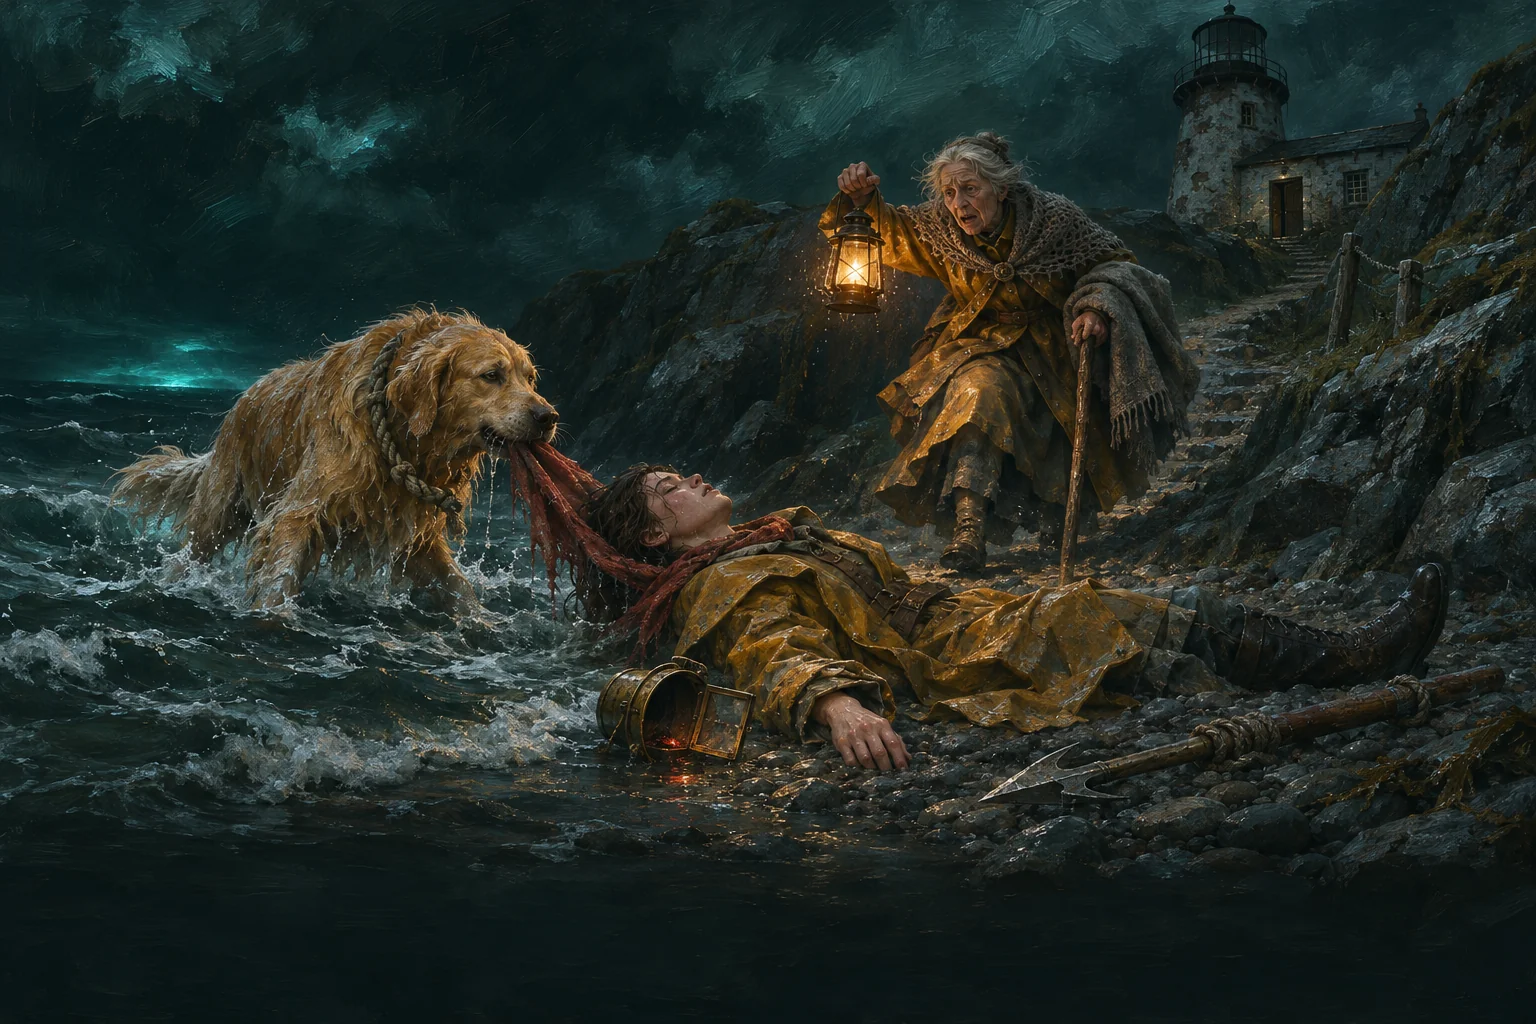
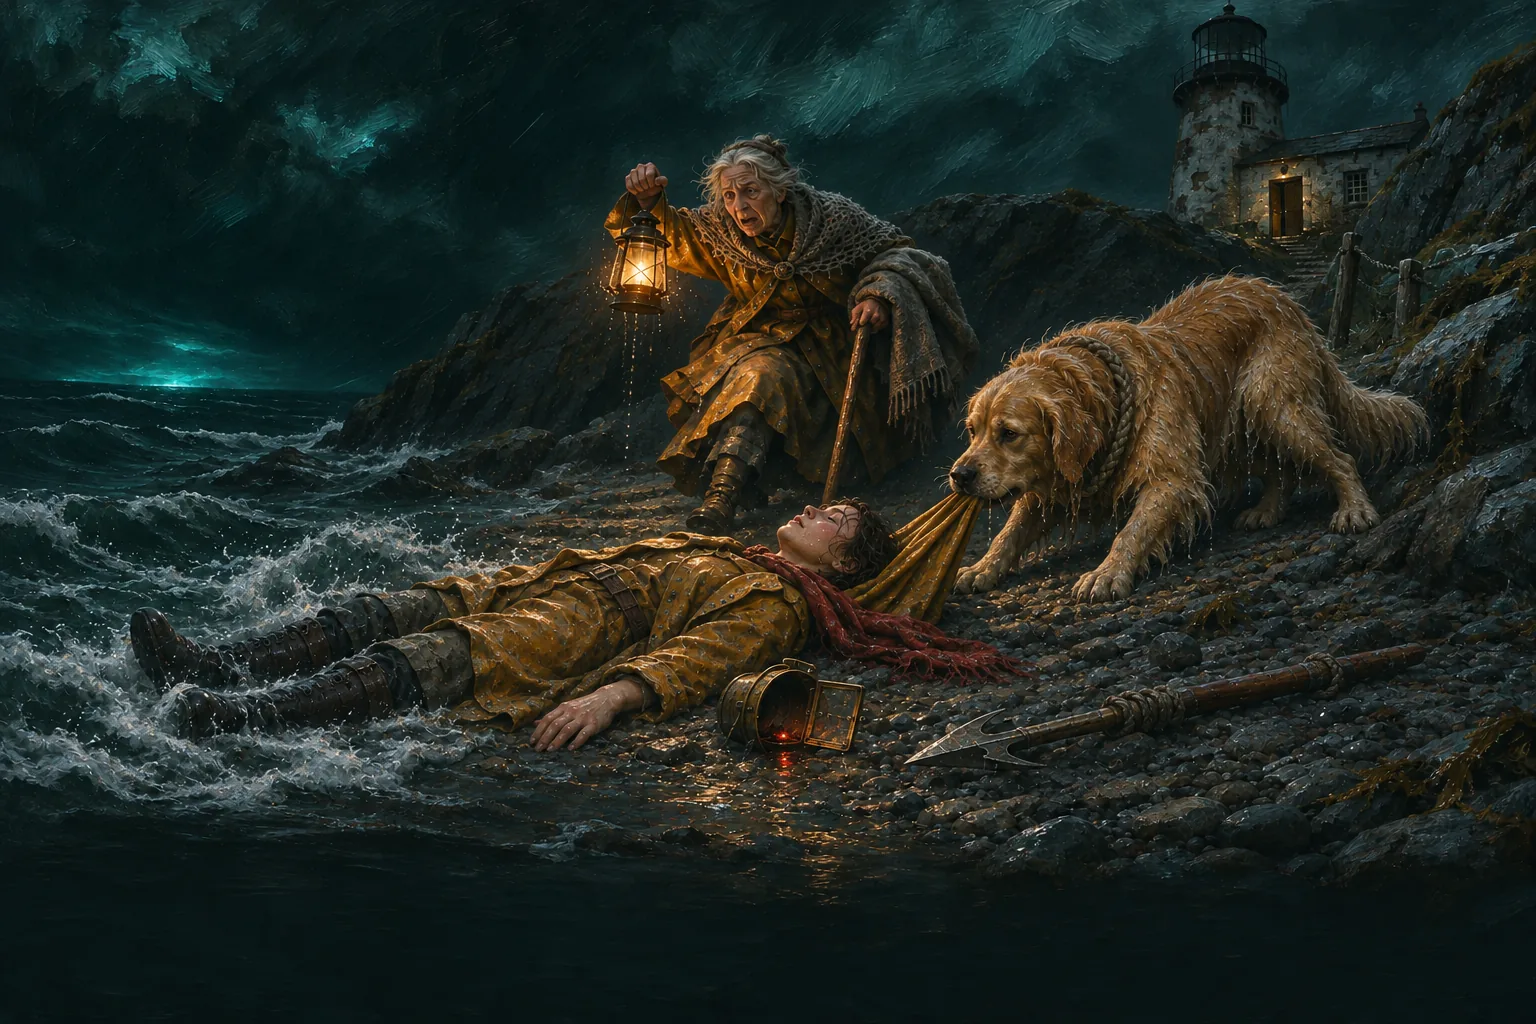
v0.46.0: the user's playtest: toll bells 5 HP / 20 Pearls (Shallows) and 7 HP / 30 Pearls (Dark Water); the Reefback Hulk 56-60 HP (7.9 to 6.6 turns a fight for the bot); a new first-fall picture with Bosun on the shore side hauling Wren out of the surf by her collar

diff --git a/js/ui.js b/js/ui.js
@@ -3631,7 +3631,7 @@
   }
 
   /* ----- The Toll (v0.41.0) ----- */
-  /* What a toll asks on a level: "8 HP, 30 Pearls or a Barnacle Growth" (`short`: no Barnacle). */
+  /* What a toll asks on a level: "5 HP, 20 Pearls or a Barnacle Growth" (`short`: no Barnacle). */
   function tollText(lv, short) {
     const t = E.TOLL[Math.min(E.TOLL.length - 1, lv)];
     return short ? `${t.hp} HP or ${t.pearls} Pearls` : `${t.hp} HP, ${t.pearls} Pearls or a Barnacle Growth in your deck`;
@@ -3736,12 +3736,12 @@
     const title = win ? (run.heart ? 'The Lantern Heart rises' : run.quieted ? 'The Belfry is quiet' : 'Home with your haul') : 'The tide takes you';
     const text = win
       ? (run.heart ? E.band(run).win : run.quieted ? E.band(run).quiet : `You climb back up the drained stairs with everything you carry, and Bosun runs ahead to tell Hester. Behind you the bells start again, and the water creeps back over the landings. ${run.heartHome ? 'The great light turns over the town' : 'The lighthouse is still dark'}, and you know the way down now.`)
-      : `The cold water closes over your lantern, and you go under. Past the bell's reach the sea gives you back, and Bosun drags you out of the surf by your scarf. ${run.heartHome ? 'The great light still turns over the town.' : 'The lighthouse is still dark, and the water has risen a little higher toward the town.'}`;
+      : `The cold water closes over your lantern, and you go under. Past the bell's reach the sea gives you back, and Bosun hauls you up out of the surf by your collar. ${run.heartHome ? 'The great light still turns over the town.' : 'The lighthouse is still dark, and the water has risen a little higher toward the town.'}`;
     /* v0.44.0: Hester and Bosun on the end screens. Bringing the Heart home shows her on the gallery as the light turns;
        coming home shows her in the doorway with Bosun running ahead, the lamp lit once the Heart is home; a fall shows
        Bosun bringing Wren out of the surf (the first fall's story scene). */
     const endArt = win ? (run.heart ? 'scenes/sc_heart3' : run.heartHome ? 'scenes/end_home_lit' : 'scenes/end_home') : 'scenes/sc_fall';
-    const endPos = { 'scenes/sc_heart3': '45% center', 'scenes/sc_fall': '45% center' }[endArt] || '55% center'; // where the people are, on a phone
+    const endPos = { 'scenes/sc_heart3': '45% center', 'scenes/sc_fall': '58% center' }[endArt] || '55% center'; // where the people are, on a phone
     // no HUD on the end screens, so the dimming layer starts at the very top (--hud-h: 0)
     screenEl.innerHTML = `<div class="run-screen" style="--hud-h:0px"><div class="run-body"><div class="scene" style="background-image:url(img/${endArt}.webp);background-position:${endPos}"><div class="scene-inner" style="padding-top:8vh">
       <h1>${title}</h1><p class="lead">${text}</p>

diff --git a/tests/rules.test.js b/tests/rules.test.js
@@ -936,7 +936,7 @@ test('Wrecks: a chest of Pearls and a choice of 1 of 2 keepsakes', () => {
   assert.ok(!E.has(run, run.treasure.choices[0]), 'only one');
 });
 
-test('a toll bell: pay 8 HP (never the last), 30 Pearls or a Barnacle Growth to pass; Dark Water asks 10 HP or 40 Pearls; not in the Belfry', () => {
+test('a toll bell: pay 5 HP (never the last), 20 Pearls or a Barnacle Growth to pass; Dark Water asks 7 HP or 30 Pearls; not in the Belfry', () => {
   const at = (level) => { const run = E.newRun(4, level, ['suit']); E.enterNode(run, { row: E.TOLL_ROW, col: 0, type: 'toll' }); return run; };
   assert.equal(E.TOLL_ROW, 4);
   // in HP
@@ -946,7 +946,7 @@ test('a toll bell: pay 8 HP (never the last), 30 Pearls or a Barnacle Growth to 
   assert.equal(E.tollCan(run, 'pearls'), 'Not enough Pearls');
   assert.equal(E.payToll(run, 'pearls'), false);
   assert.equal(E.payToll(run, 'hp'), true);
-  assert.equal(run.hp, 70 - 8);
+  assert.equal(run.hp, 70 - 5);
   assert.equal(E.payToll(run, 'barnacle'), false, 'once');
   assert.equal(run.toll.paid, 'hp');
   E.backToMap(run);
@@ -955,11 +955,11 @@ test('a toll bell: pay 8 HP (never the last), 30 Pearls or a Barnacle Growth to 
   run = at(0);
   run.pearls = 45;
   assert.equal(E.payToll(run, 'pearls'), true);
-  assert.equal(run.pearls, 15);
+  assert.equal(run.pearls, 25);
   assert.equal(run.hp, 70);
   // with barnacles; and HP can't pay with her last
   run = at(0);
-  run.hp = 8;
+  run.hp = 5;
   assert.equal(E.tollCan(run, 'hp'), 'Too weak');
   assert.equal(E.payToll(run, 'hp'), false);
   const deck = run.deck.length;
@@ -972,11 +972,11 @@ test('a toll bell: pay 8 HP (never the last), 30 Pearls or a Barnacle Growth to 
   assert.equal(E.payToll(run, 'hp'), false);
   // Dark Water asks more
   run = at(1);
-  run.pearls = 39;
+  run.pearls = 29;
   assert.equal(E.tollCan(run, 'pearls'), 'Not enough Pearls');
   E.payToll(run, 'hp');
-  assert.equal(run.hp, 70 - 10);
-  assert.deepEqual(E.TOLL, [{ hp: 8, pearls: 30 }, { hp: 10, pearls: 40 }]);
+  assert.equal(run.hp, 70 - 7);
+  assert.deepEqual(E.TOLL, [{ hp: 5, pearls: 20 }, { hp: 7, pearls: 30 }]);
   // every walkable level has its toll row; the Belfry's dive has none
   assert.ok(E.newRun(9, 1).map.grid[4].filter(Boolean).every((n) => n.type === 'toll'));
   assert.ok(E.newRun(9, 2, ['suit']).map.grid.flat().filter(Boolean).every((n) => n.type !== 'toll'));

diff --git a/js/data.js b/js/data.js
@@ -518,7 +518,7 @@
     },
     // ---------- Elites ----------
     hulk: {
-      name: 'Reefback Hulk', hp: [68, 72], art: 'hulk', scale: 1.3, elite: true,
+      name: 'Reefback Hulk', hp: [56, 60], art: 'hulk', scale: 1.3, elite: true, // 68-72 until v0.46.0: 7.9 turns a fight for the bot, the other Shallows Dreads 6.8
       init: (e) => { e.st.spines = 2; }, // Spines 3 and Rouse Might 2 until v0.21.0: by far the deadliest Dread in the game
       moves: {
         crush: { name: 'Crush', dmg: 11 },
@@ -1259,8 +1259,8 @@
       ] },
       // the first fall (v0.44.0, the user's request): Bosun brings her out of the surf; every later fall's end screen shows it
       fall: { at: 'fell', beats: [
-        { art: 'scenes/sc_fall', pos: '45% center', wide: 'center 35%', zoom: 1.04,
-          text: 'The cold water closed over your lantern, and the sea gave you back. Bosun went in after you and dragged you out of the surf by your scarf, barking until Hester came down the rock with a lantern and a blanket. In your lantern an ember was still alight.' },
+        { art: 'scenes/sc_fall', pos: '58% center', wide: 'center 35%', zoom: 1.04, // v0.46.0's picture: Bosun on the shore side
+          text: 'The cold water closed over your lantern, and the sea gave you back. Bosun went in after you and hauled you up out of the surf by your collar, barking until Hester came down the rock with a lantern and a blanket. In your lantern an ember was still alight.' },
       ] },
       heart: { at: 'heart', beats: [
         { art: 'scenes/sc_heart1', pos: 'center', wide: 'center 35%', zoom: 1.04, sfx: 'bell',

diff --git a/js/version.js b/js/version.js
@@ -5,8 +5,13 @@
 (function () {
   'use strict';
   const BL = (globalThis.BL = globalThis.BL || {});
-  BL.VERSION = '0.45.1';
+  BL.VERSION = '0.46.0';
   BL.CHANGELOG = [
+    { v: '0.46.0', date: '2026-11-17', items: [
+      'Toll bells ask less: 5 HP or 20 Pearls in the Shallows (8 or 30 before), and 7 HP or 30 Pearls in Dark Water (10 or 40 before). A Barnacle Growth still pays either.',
+      'The Reefback Hulk has 56 to 60 HP (68 to 72 before), so its fight is about as long as the other Dreads\' of the Shallows. Its Spines and Rouse are as before.',
+      'A new picture for the first fall and every fall\'s end screen: Bosun stands on the shingle and hauls Wren up out of the surf by her collar, toward the lighthouse. Before, he stood in the surf, and it looked as if he was pulling her in.',
+    ] },
     { v: '0.45.1', date: '2026-11-17', items: [
       'A Dread\'s reward: "or the keepsake" has the same lettering as "Choose one: a card for your deck" and sits on the same line, the keepsake is level with the cards, and its name is lettered like theirs.',
     ] },

diff --git a/js/engine.js b/js/engine.js
@@ -768,7 +768,7 @@
      route: a lost bell hung across the way, still answering the Bellwether, that lets nobody pass for free. Wren
      chooses how to pay: in HP (never her last), in Pearls, or with a Barnacle Growth in her deck. Dark Water asks
      more. It takes the place of a row of stops, so a level has one stop fewer: harder, and a little shorter. */
-  E.TOLL = [{ hp: 8, pearls: 30 }, { hp: 10, pearls: 40 }];
+  E.TOLL = [{ hp: 5, pearls: 20 }, { hp: 7, pearls: 30 }]; // 8/30 and 10/40 until v0.46.0 (the user: "could lessen tolls")
   E.TOLL_WAYS = ['hp', 'pearls', 'barnacle'];
   E.tollOf = (run) => E.TOLL[Math.min(E.TOLL.length - 1, run.level || 0)];
   /* Can she pay this way? True, or the reason she can't. */

diff --git a/WORLD.md b/WORLD.md
@@ -216,7 +216,7 @@ The suit still has to be carried home before it can be worn on a later expeditio
 - **Agreed (the user's idea and choices):** Wren is not alone. An old keeper waits at the lighthouse, and a dog goes down the Reach with her. They are lore only for now, and both leave room for mechanics later. Between them they explain how Wren gets home when she falls. The dog is a golden-retriever kind of dog, but the game never names its breed.
 - **Agreed (2026-11-17): the names Hester and Bosun** (the agent's, kept by the user).
 - **In the game (v0.43.0), as drafted below:** the opening's fourth picture (`img/scenes/op_home`: Hester in the lit doorway of the dark lighthouse, Wren on the steps with her lantern, Bosun beside her), *The sea gives you back*, the fall and homecoming screens, Into the Belfry (Bosun waits by the lantern on the last dry step, also in its first picture), the dress mended with Hester holding the lamp, the Heart (Hester on the gallery), the Dark Watch ("not even Hester"), the quiet (Bosun at the foot of the bed), the Lazaret's key, The world's Hester and Bosun, and two Keeper's notes. Bosun is "he" in the game.
-- **In the game (v0.44.0), pictures:** Hester looks worried in the opening picture as Wren goes down. The first fall plays a story scene (`img/scenes/sc_fall`: Bosun dragging Wren out of the surf by her scarf, Hester coming down the rock with a lantern and a blanket, the lantern an ember on the shingle), and that picture is behind every fall's end screen. Coming home shows Hester in the lighthouse door and Bosun running up the steps ahead of Wren (`end_home`; `end_home_lit` once the Heart is home). The Heart's dawn picture (`sc_heart3`) has Hester on the gallery as the great light turns, and Bosun barking on the rock below. The Workshop's picture has Bosun in it.
+- **In the game (v0.44.0), pictures:** Hester looks worried in the opening picture as Wren goes down. The first fall plays a story scene (`img/scenes/sc_fall`: since v0.46.0 Bosun on the shore side, backing up the shingle and hauling Wren out of the surf by the collar of her oilskin, her boots still in the waves, Hester coming down the rock with a lantern, the lantern an ember on the shingle; until then he stood in the surf pulling her scarf, which the user saw as dragging her into the sea. He swims her in by her scarf and hauls her up the shingle by her collar), and that picture is behind every fall's end screen. Coming home shows Hester in the lighthouse door and Bosun running up the steps ahead of Wren (`end_home`; `end_home_lit` once the Heart is home). The Heart's dawn picture (`sc_heart3`) has Hester on the gallery as the great light turns, and Bosun barking on the rock below. The Workshop's picture has Bosun in it.
 - **Draft (the agent's details):**
   - **The old keeper, Hester.** She kept the light for forty years and taught Wren. The lantern Wren carries was hers. When her knees gave out on the tower stairs she handed it on, and the keeping with it. Without a lit lantern she is no longer a keeper, so Wren is still the last one. Like every keeper since the Lost Lamplighter, Hester never went down the stair. She knows the Reach only from the keepers' book, which she keeps and Wren reads. She is what makes the lighthouse home: the kettle, the patched oilskin, the key to the Lazaret, the bench in the boathouse where the dress was mended. She does not go down and does not fight. What she gives is what the book knows, and someone to come home to. Dev, the errand boy in the keeper drafts, runs her errands.
   - **The dog, Bosun.** Hester's dog first, and Wren's now: big, golden and soft-mouthed. It has pulled gulls, oars and once a fisherman's boy out of the harbour. It goes down with Wren through the Shallows and Dark Water and keeps back from fights, which is why a fight shows her alone. It cannot follow her under the sea. On the last dry step above the Belfry it lies down beside the open lantern she leaves there, and waits. In pictures its coat is the warm gold of lantern light against the teal Reach.

diff --git a/GAME_NOTES.md b/GAME_NOTES.md
@@ -1743,6 +1743,26 @@ Steps 1 and 2 of the build order above, which the user asked for ("Yes, do 1 and
 
 **The bloopers page (asked for a sketch only, not built):** "Outtakes" behind Credits, opened once the Heart is home like a post-credits reel. Two tabs, Pictures and Songs; each row the outtake (a picture, or a 15-30 s clip) and one line, "Asked for: ... Got: ...". Material: the art dropped in the v0.23.0 review, the first post-Hermit bell picture, keeper drafts, the metal song takes that came out as teen-angst screaming. About a day of work; clips, not whole songs, for size. Kept off the main path so it doesn't break the mood.
 
+### The user's playtest: cheaper tolls, a shorter Hulk, and the fall picture (v0.46.0, 2026-11-17)
+
+- **The user's playtest notes (on the live v0.44.0):** "Game much harder now, did not defeat first boss. But got enough salvage to buy cork vest. Reefback Hulk felt a bit too long of a fight. Could lessen tolls in Toll Bell. Like the shorter game length. Difficulty might be okay even if harder." And on the first-fall picture: "it almost looks like Wren is dragged into the water, away from lighthouse?"
+- **The user's calls:** tolls 5 HP / 20 Pearls in the Shallows and 7 HP / 30 Pearls in Dark Water (the agent's proposal; a Barnacle Growth still pays either); the Hulk measured first, then 56-60 HP; the fall picture repainted with Bosun pulling toward the shore, variant A of two.
+- **No global difficulty change**, since the user finds harder possibly fine and likes the length.
+- **Measured** (`tools/measure-detail.js`, 2000 seeds; the "forced" rows make every Shallows Dread the Hulk, so the Shallows' Dread turns are the Hulk's):
+
+  | Row | pin1 % | pin2 % | Shallows Dread turns a fight |
+  |---|---|---|---|
+  | old tolls, Hulk 68-72 (v0.45.1) | 24.4 | 15.3 | 7.18 |
+  | new tolls, Hulk 68-72 | 24.9 | 17.7 | 7.15 |
+  | new tolls, Hulk 60-64 | 25.6 | 18.1 | 6.89 |
+  | **new tolls, Hulk 56-60 (v0.46.0)** | 25.9 | 18.4 | 6.76 |
+  | forced Hulk 68-72 | 22.3 | 14.6 | 7.87 |
+  | forced Hulk 60-64 | 23.5 | 14.7 | 7.00 |
+  | forced Hulk 56-60 | 23.9 | 15.7 | 6.57 |
+
+  The other Shallows Dreads (Siren, Twins) take about 6.8 turns (500 seeds). Lowering Rouse's Ward from 10 to 6, the agent's first guess, saved only 0.2 turns (500 seeds: 7.75 to 7.56), so it was dropped. The cheaper tolls help most in Dark Water (pin2 +2.4 points); pin1 moves within noise (about ±1 at 2000 seeds). The bot breaks the Shallows' pin in about a quarter of its runs, so the user losing to the Hermit fits.
+- **The fall picture** (`img/scenes/sc_fall`): in v0.44.0's picture Bosun stood in the surf on the sea side pulling Wren's scarf, so he seemed to drag her in. The new one is a Codex edit with the old picture attached (built-in image tool, two variants; prompt in `assets-src/wanted-images.tsv`): the sea on the left, Wren on her back with her boots in the surf and her head toward the lighthouse, Bosun on dry shingle backing up toward Hester with the shoulder of her oilskin in his teeth, Hester on the rock above with her lantern. B (closer, Hester with the blanket) had her stick seeming to grow from Wren's head. The phone crop moved from 45% to 58% (the story scene's `pos` and `endPos`), checked on the end screen at 390x844. The texts now say Bosun hauls her up out of the surf "by your collar"; he still swims her in by her scarf (the Story so far, WORLD.md: his mouth is full of it, so the keepsakes wash up later).
+
 ### A Dread's reward, lettered alike (v0.45.1, 2026-11-17)
 
 - **The user:** a screenshot of a Dread's reward, "fonts/layout look a bit inconsistent". On a wide screen "or the keepsake" was in the sans (`font-family: inherit`, from v0.40.0) while "Choose one: a card for your deck" is in the serif, and the keepsake's panel centred its contents, so its heading sat lower than the cards' heading.

diff --git a/README.md b/README.md
@@ -101,7 +101,7 @@ The menu (top right) has the tutorial, How to Play, Story so far, sound effects 
 - **Barnaby's shop:** buy cards (60 to 72 Pearls for a common, 95 to 112 for an uncommon, 180 to 205 for a rare, and one of the five at half price), keepsakes (150 to 185) and tonics (50 to 65), or pay to remove a card (75, then 25 more each time, up to 100). You set out with no Pearls, so the Shallows have no shop on their first two landings.
 - **Sheltered Coves:** rest to heal 30% of your HP, or upgrade a card, or **give a keepsake to the sea**. The keepsake is gone for the rest of the expedition, with its Roil. The sea pays for it: you heal 3 HP for each fight you won while carrying it, never more than a Cove's rest (21 HP at 70 Max HP), and you upgrade a card. A keepsake taken and thrown straight back pays only the upgrade. One you brought from the Lazaret is gone from there too.
 - **Wrecks:** a chest of pearls where you may take 1 of 2 keepsakes.
-- **Toll bells:** a lost bell hung across the way, on every route right after the Wreck. Nobody passes for free: pay 8 HP (not if that would take your last), 30 Pearls, or take a **Barnacle Growth** into your deck (unplayable; it stays until you remove it). In Dark Water it asks 10 HP or 40 Pearls. The Belfry has none.
+- **Toll bells:** a lost bell hung across the way, on every route right after the Wreck. Nobody passes for free: pay 5 HP (not if that would take your last), 20 Pearls, or take a **Barnacle Growth** into your deck (unplayable; it stays until you remove it). In Dark Water it asks 7 HP or 30 Pearls. The Belfry has none.
 
 **Keepsakes, Roil and a Roiled aether.** A keepsake lasts the whole run, and it stirs the aether around you. How much is its **Roil** (shown on each keepsake). Every keepsake you carry counts.
 - The aether around you holds a set amount of Roil, your **Hold**: 20, at every depth and on every expedition. The Workshop can raise it for good (see below). Up to your Hold the aether is **Calm**.
